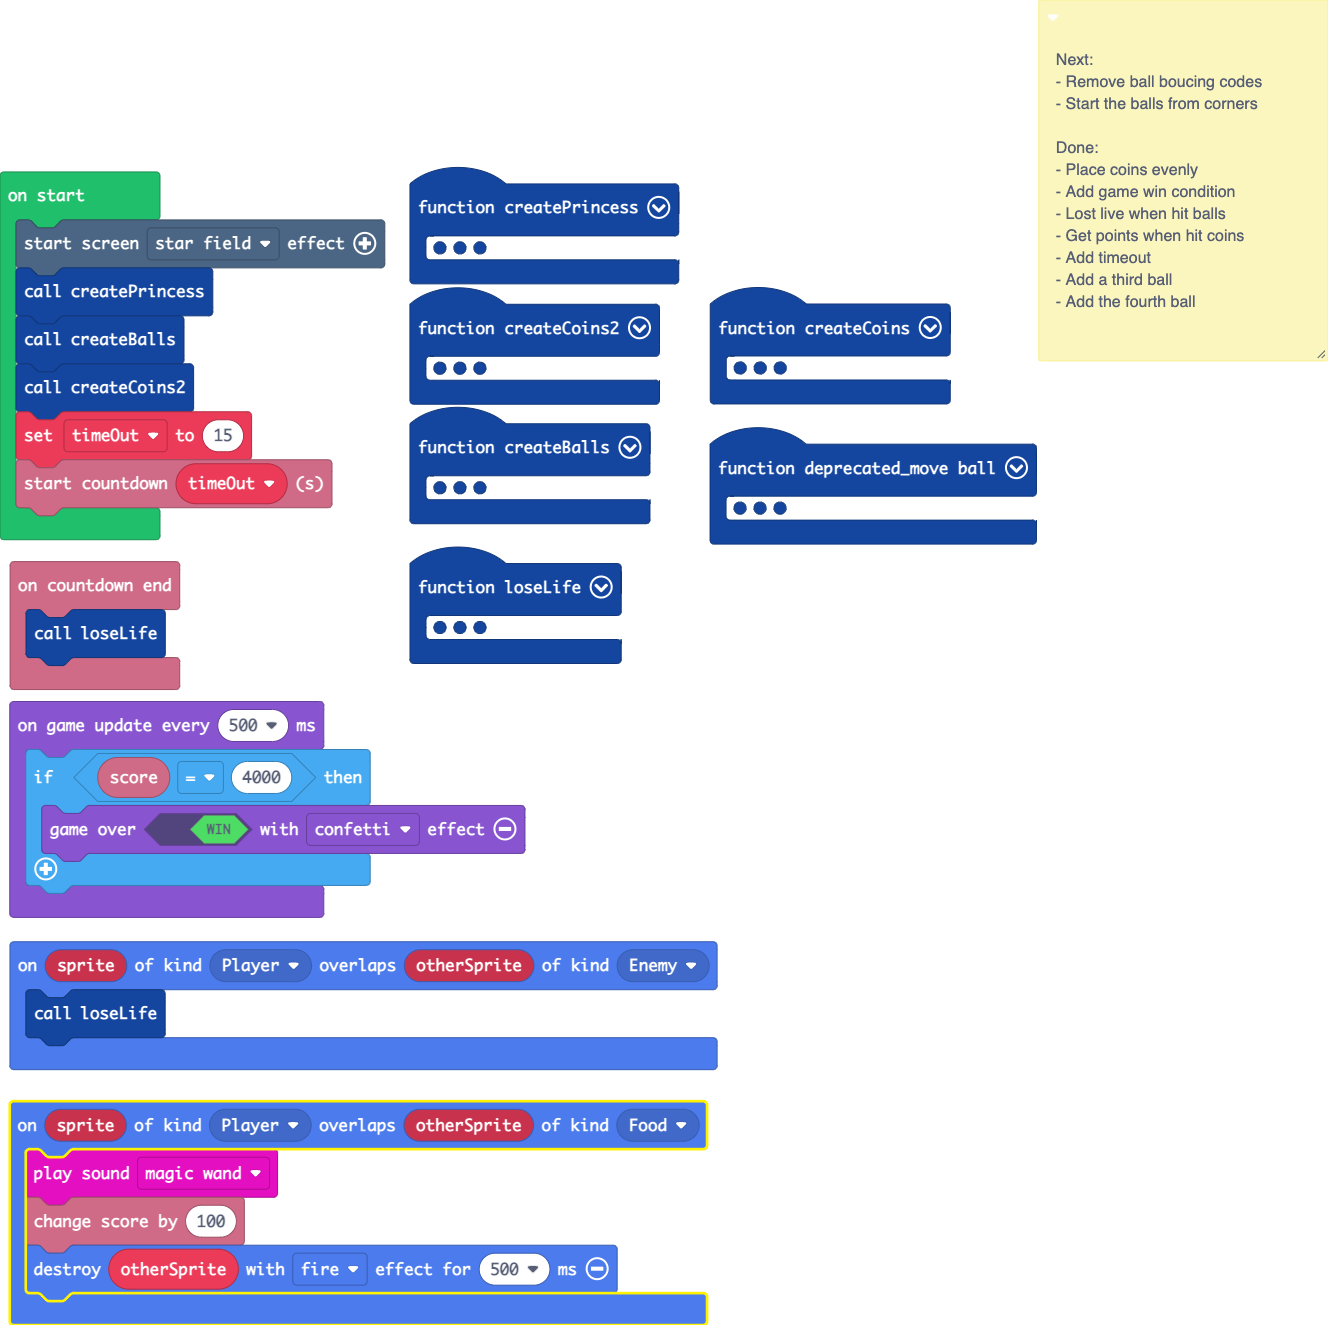
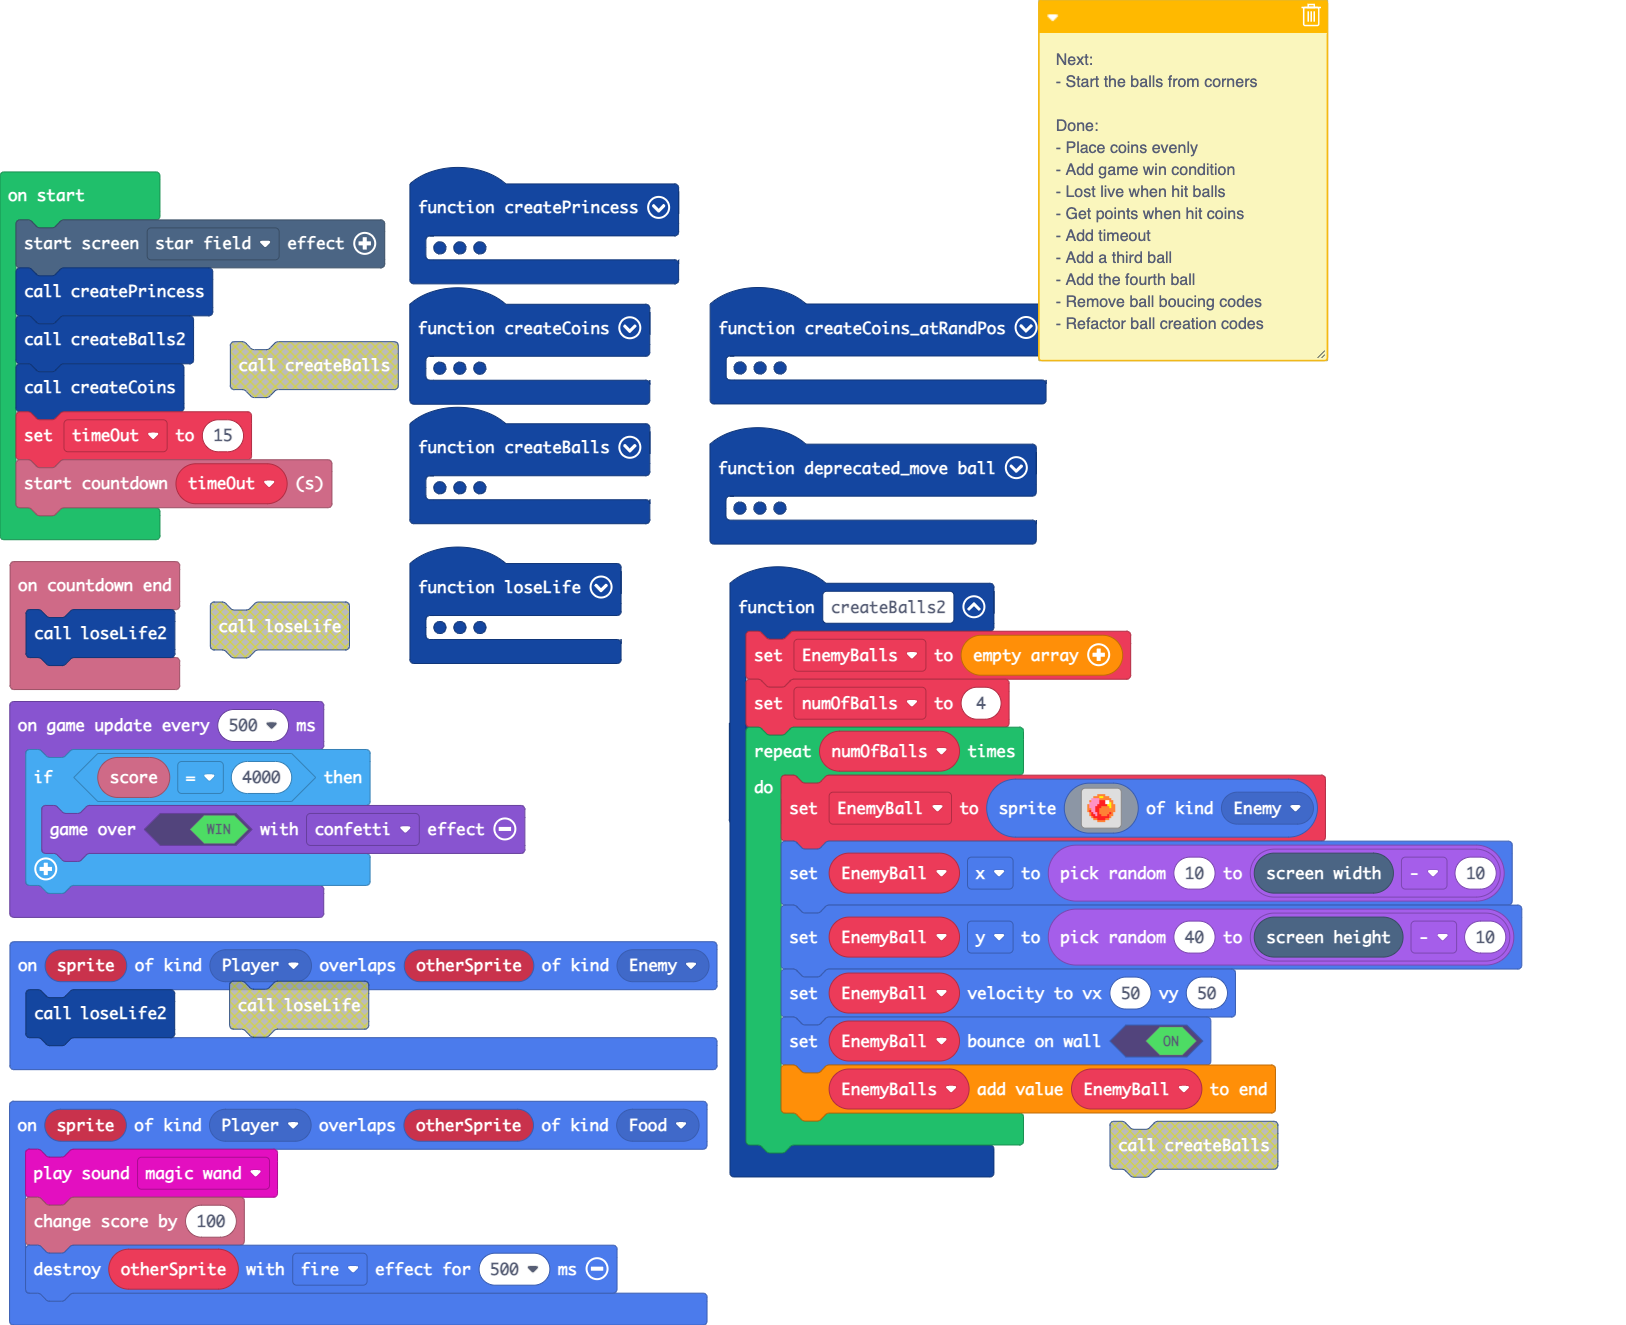
Refactor ball creation to support any number of balls

diff --git a/main.ts b/main.ts
@@ -1,26 +1,3 @@
-/**
- * Next:
- * 
- * - Remove ball boucing codes
- * 
- * - Start the balls from corners
- * 
- * Done:
- * 
- * - Place coins evenly
- * 
- * - Add game win condition
- * 
- * - Lost live when hit balls
- * 
- * - Get points when hit coins
- * 
- * - Add timeout
- * 
- * - Add a third ball
- * 
- * - Add the fourth ball
- */
 function createPrincess () {
     Princess = sprites.create(img`
         . . . . . f f f f . . . . . 
@@ -45,60 +22,6 @@ function createPrincess () {
     controller.moveSprite(Princess)
     info.setLife(3)
 }
-function createCoins2 () {
-    for (let index = 0; index <= 9; index++) {
-        GoldCoin = sprites.create(img`
-            . . . b b b . . 
-            . . b 5 5 5 b . 
-            . b 5 d 3 d 5 b 
-            . b 5 1 5 3 5 b 
-            . c d 1 5 3 5 c 
-            . c d d 1 d 5 c 
-            . . f d d d f . 
-            . . . f f f . . 
-            `, SpriteKind.Food)
-        GoldCoin.setPosition((index + 1) * 15, 50)
-    }
-    for (let index = 0; index <= 9; index++) {
-        GoldCoin = sprites.create(img`
-            . . . b b b . . 
-            . . b 5 5 5 b . 
-            . b 5 d 3 d 5 b 
-            . b 5 1 5 3 5 b 
-            . c d 1 5 3 5 c 
-            . c d d 1 d 5 c 
-            . . f d d d f . 
-            . . . f f f . . 
-            `, SpriteKind.Food)
-        GoldCoin.setPosition((index + 1) * 15, 70)
-    }
-    for (let index = 0; index <= 9; index++) {
-        GoldCoin = sprites.create(img`
-            . . . b b b . . 
-            . . b 5 5 5 b . 
-            . b 5 d 3 d 5 b 
-            . b 5 1 5 3 5 b 
-            . c d 1 5 3 5 c 
-            . c d d 1 d 5 c 
-            . . f d d d f . 
-            . . . f f f . . 
-            `, SpriteKind.Food)
-        GoldCoin.setPosition((index + 1) * 15, 90)
-    }
-    for (let index = 0; index <= 9; index++) {
-        GoldCoin = sprites.create(img`
-            . . . b b b . . 
-            . . b 5 5 5 b . 
-            . b 5 d 3 d 5 b 
-            . b 5 1 5 3 5 b 
-            . c d 1 5 3 5 c 
-            . c d d 1 d 5 c 
-            . . f d d d f . 
-            . . . f f f . . 
-            `, SpriteKind.Food)
-        GoldCoin.setPosition((index + 1) * 15, 110)
-    }
-}
 function loseLife () {
     scene.cameraShake(4, 500)
     music.powerDown.play()
@@ -111,8 +34,19 @@ function loseLife () {
     createBalls()
     info.startCountdown(timeOut)
 }
+function loseLife2 () {
+    scene.cameraShake(4, 500)
+    music.powerDown.play()
+    info.changeLifeBy(-1)
+    Princess.setPosition(80, 20)
+    for (let index = 0; index <= EnemyBalls.length - 1; index++) {
+        EnemyBalls[index].destroy()
+    }
+    createBalls2()
+    info.startCountdown(timeOut)
+}
 info.onCountdownEnd(function () {
-    loseLife()
+    loseLife2()
 })
 function deprecated_move (ball: Sprite) {
     if (ball.y > scene.screenHeight() - 20) {
@@ -234,7 +168,123 @@ function createBalls () {
     EnemyBall_4.setVelocity(-50, 50)
     EnemyBall_4.setBounceOnWall(true)
 }
+function createBalls2 () {
+    EnemyBalls = []
+    numOfBalls = 4
+    for (let index = 0; index < numOfBalls; index++) {
+        EnemyBall = sprites.create(img`
+            . . . . . . . . . . . . . . . . 
+            . . . . . . 4 4 4 4 . . . . . . 
+            . . . . 4 4 4 5 5 4 4 4 . . . . 
+            . . . 3 3 3 3 4 4 4 4 4 4 . . . 
+            . . 4 3 3 3 3 2 2 2 1 1 4 4 . . 
+            . . 3 3 3 3 3 2 2 2 1 1 5 4 . . 
+            . 4 3 3 3 3 2 2 2 2 2 5 5 4 4 . 
+            . 4 3 3 3 2 2 2 4 4 4 4 5 4 4 . 
+            . 4 4 3 3 2 2 4 4 4 4 4 4 4 4 . 
+            . 4 2 3 3 2 2 4 4 4 4 4 4 4 4 . 
+            . . 4 2 3 3 2 4 4 4 4 4 2 4 . . 
+            . . 4 2 2 3 2 2 4 4 4 2 4 4 . . 
+            . . . 4 2 2 2 2 2 2 2 2 4 . . . 
+            . . . . 4 4 2 2 2 2 4 4 . . . . 
+            . . . . . . 4 4 4 4 . . . . . . 
+            . . . . . . . . . . . . . . . . 
+            `, SpriteKind.Enemy)
+        EnemyBall.x = randint(10, scene.screenWidth() - 10)
+        EnemyBall.y = randint(40, scene.screenHeight() - 10)
+        EnemyBall.setVelocity(50, 50)
+        EnemyBall.setBounceOnWall(true)
+        EnemyBalls.push(EnemyBall)
+    }
+}
 function createCoins () {
+    for (let index = 0; index <= 9; index++) {
+        GoldCoin = sprites.create(img`
+            . . . b b b . . 
+            . . b 5 5 5 b . 
+            . b 5 d 3 d 5 b 
+            . b 5 1 5 3 5 b 
+            . c d 1 5 3 5 c 
+            . c d d 1 d 5 c 
+            . . f d d d f . 
+            . . . f f f . . 
+            `, SpriteKind.Food)
+        GoldCoin.setPosition((index + 1) * 15, 50)
+    }
+    for (let index = 0; index <= 9; index++) {
+        GoldCoin = sprites.create(img`
+            . . . b b b . . 
+            . . b 5 5 5 b . 
+            . b 5 d 3 d 5 b 
+            . b 5 1 5 3 5 b 
+            . c d 1 5 3 5 c 
+            . c d d 1 d 5 c 
+            . . f d d d f . 
+            . . . f f f . . 
+            `, SpriteKind.Food)
+        GoldCoin.setPosition((index + 1) * 15, 70)
+    }
+    for (let index = 0; index <= 9; index++) {
+        GoldCoin = sprites.create(img`
+            . . . b b b . . 
+            . . b 5 5 5 b . 
+            . b 5 d 3 d 5 b 
+            . b 5 1 5 3 5 b 
+            . c d 1 5 3 5 c 
+            . c d d 1 d 5 c 
+            . . f d d d f . 
+            . . . f f f . . 
+            `, SpriteKind.Food)
+        GoldCoin.setPosition((index + 1) * 15, 90)
+    }
+    for (let index = 0; index <= 9; index++) {
+        GoldCoin = sprites.create(img`
+            . . . b b b . . 
+            . . b 5 5 5 b . 
+            . b 5 d 3 d 5 b 
+            . b 5 1 5 3 5 b 
+            . c d 1 5 3 5 c 
+            . c d d 1 d 5 c 
+            . . f d d d f . 
+            . . . f f f . . 
+            `, SpriteKind.Food)
+        GoldCoin.setPosition((index + 1) * 15, 110)
+    }
+}
+sprites.onOverlap(SpriteKind.Player, SpriteKind.Food, function (sprite, otherSprite) {
+    music.magicWand.play()
+    info.changeScoreBy(100)
+    otherSprite.destroy(effects.fire, 500)
+})
+sprites.onOverlap(SpriteKind.Player, SpriteKind.Enemy, function (sprite, otherSprite) {
+    loseLife2()
+})
+/**
+ * Next:
+ * 
+ * - Start the balls from corners
+ * 
+ * Done:
+ * 
+ * - Place coins evenly
+ * 
+ * - Add game win condition
+ * 
+ * - Lost live when hit balls
+ * 
+ * - Get points when hit coins
+ * 
+ * - Add timeout
+ * 
+ * - Add a third ball
+ * 
+ * - Add the fourth ball
+ * 
+ * - Remove ball boucing codes
+ * 
+ * - Refactor ball creation codes
+ */
+function createCoins_atRandPos () {
     for (let index = 0; index < 10; index++) {
         GoldCoin = sprites.create(img`
             . . . b b b . . 
@@ -250,25 +300,20 @@ function createCoins () {
         GoldCoin.y = randint(10, scene.screenHeight() - 10)
     }
 }
-sprites.onOverlap(SpriteKind.Player, SpriteKind.Food, function (sprite, otherSprite) {
-    music.magicWand.play()
-    info.changeScoreBy(100)
-    otherSprite.destroy(effects.fire, 500)
-})
-sprites.onOverlap(SpriteKind.Player, SpriteKind.Enemy, function (sprite, otherSprite) {
-    loseLife()
-})
+let GoldCoin: Sprite = null
+let EnemyBall: Sprite = null
+let numOfBalls = 0
+let EnemyBalls: Sprite[] = []
 let EnemyBall_4: Sprite = null
 let EnemyBall_3: Sprite = null
 let EnemyBall_2: Sprite = null
 let EnemyBall_1: Sprite = null
-let GoldCoin: Sprite = null
 let Princess: Sprite = null
 let timeOut = 0
 effects.starField.startScreenEffect()
 createPrincess()
-createBalls()
-createCoins2()
+createBalls2()
+createCoins()
 timeOut = 15
 info.startCountdown(timeOut)
 game.onUpdateInterval(500, function () {

diff --git a/images.g.ts b/images.g.ts
@@ -459,6 +459,114 @@ f b b 4 1 f d d f 1 4 b b f
 . . . . . . 4 4 4 4 . . . . . . 
 . . . . . . . . . . . . . . . . 
 `;
+            case "image33":return img`
+. . . . . . . . . . . . . . . . 
+. . . . . . 4 4 4 4 . . . . . . 
+. . . . 4 4 4 5 5 4 4 4 . . . . 
+. . . 3 3 3 3 4 4 4 4 4 4 . . . 
+. . 4 3 3 3 3 2 2 2 1 1 4 4 . . 
+. . 3 3 3 3 3 2 2 2 1 1 5 4 . . 
+. 4 3 3 3 3 2 2 2 2 2 5 5 4 4 . 
+. 4 3 3 3 2 2 2 4 4 4 4 5 4 4 . 
+. 4 4 3 3 2 2 4 4 4 4 4 4 4 4 . 
+. 4 2 3 3 2 2 4 4 4 4 4 4 4 4 . 
+. . 4 2 3 3 2 4 4 4 4 4 2 4 . . 
+. . 4 2 2 3 2 2 4 4 4 2 4 4 . . 
+. . . 4 2 2 2 2 2 2 2 2 4 . . . 
+. . . . 4 4 2 2 2 2 4 4 . . . . 
+. . . . . . 4 4 4 4 . . . . . . 
+. . . . . . . . . . . . . . . . 
+`;
+            case "image34":return img`
+. . . . . . . . . . . . . . . . 
+. . . . . . 4 4 4 4 . . . . . . 
+. . . . 4 4 4 5 5 4 4 4 . . . . 
+. . . 3 3 3 3 4 4 4 4 4 4 . . . 
+. . 4 3 3 3 3 2 2 2 1 1 4 4 . . 
+. . 3 3 3 3 3 2 2 2 1 1 5 4 . . 
+. 4 3 3 3 3 2 2 2 2 2 5 5 4 4 . 
+. 4 3 3 3 2 2 2 4 4 4 4 5 4 4 . 
+. 4 4 3 3 2 2 4 4 4 4 4 4 4 4 . 
+. 4 2 3 3 2 2 4 4 4 4 4 4 4 4 . 
+. . 4 2 3 3 2 4 4 4 4 4 2 4 . . 
+. . 4 2 2 3 2 2 4 4 4 2 4 4 . . 
+. . . 4 2 2 2 2 2 2 2 2 4 . . . 
+. . . . 4 4 2 2 2 2 4 4 . . . . 
+. . . . . . 4 4 4 4 . . . . . . 
+. . . . . . . . . . . . . . . . 
+`;
+            case "image35":return img`
+. . . . . . . . . . . . . . . . 
+. . . . . . 4 4 4 4 . . . . . . 
+. . . . 4 4 4 5 5 4 4 4 . . . . 
+. . . 3 3 3 3 4 4 4 4 4 4 . . . 
+. . 4 3 3 3 3 2 2 2 1 1 4 4 . . 
+. . 3 3 3 3 3 2 2 2 1 1 5 4 . . 
+. 4 3 3 3 3 2 2 2 2 2 5 5 4 4 . 
+. 4 3 3 3 2 2 2 4 4 4 4 5 4 4 . 
+. 4 4 3 3 2 2 4 4 4 4 4 4 4 4 . 
+. 4 2 3 3 2 2 4 4 4 4 4 4 4 4 . 
+. . 4 2 3 3 2 4 4 4 4 4 2 4 . . 
+. . 4 2 2 3 2 2 4 4 4 2 4 4 . . 
+. . . 4 2 2 2 2 2 2 2 2 4 . . . 
+. . . . 4 4 2 2 2 2 4 4 . . . . 
+. . . . . . 4 4 4 4 . . . . . . 
+. . . . . . . . . . . . . . . . 
+`;
+            case "image36":return img`
+. . . . . . . . . . . . . . . . 
+. . . . . . 4 4 4 4 . . . . . . 
+. . . . 4 4 4 5 5 4 4 4 . . . . 
+. . . 3 3 3 3 4 4 4 4 4 4 . . . 
+. . 4 3 3 3 3 2 2 2 1 1 4 4 . . 
+. . 3 3 3 3 3 2 2 2 1 1 5 4 . . 
+. 4 3 3 3 3 2 2 2 2 2 5 5 4 4 . 
+. 4 3 3 3 2 2 2 4 4 4 4 5 4 4 . 
+. 4 4 3 3 2 2 4 4 4 4 4 4 4 4 . 
+. 4 2 3 3 2 2 4 4 4 4 4 4 4 4 . 
+. . 4 2 3 3 2 4 4 4 4 4 2 4 . . 
+. . 4 2 2 3 2 2 4 4 4 2 4 4 . . 
+. . . 4 2 2 2 2 2 2 2 2 4 . . . 
+. . . . 4 4 2 2 2 2 4 4 . . . . 
+. . . . . . 4 4 4 4 . . . . . . 
+. . . . . . . . . . . . . . . . 
+`;
+            case "image37":return img`
+. . . . . . . . . . . . . . . . 
+. . . . . . 4 4 4 4 . . . . . . 
+. . . . 4 4 4 5 5 4 4 4 . . . . 
+. . . 3 3 3 3 4 4 4 4 4 4 . . . 
+. . 4 3 3 3 3 2 2 2 1 1 4 4 . . 
+. . 3 3 3 3 3 2 2 2 1 1 5 4 . . 
+. 4 3 3 3 3 2 2 2 2 2 5 5 4 4 . 
+. 4 3 3 3 2 2 2 4 4 4 4 5 4 4 . 
+. 4 4 3 3 2 2 4 4 4 4 4 4 4 4 . 
+. 4 2 3 3 2 2 4 4 4 4 4 4 4 4 . 
+. . 4 2 3 3 2 4 4 4 4 4 2 4 . . 
+. . 4 2 2 3 2 2 4 4 4 2 4 4 . . 
+. . . 4 2 2 2 2 2 2 2 2 4 . . . 
+. . . . 4 4 2 2 2 2 4 4 . . . . 
+. . . . . . 4 4 4 4 . . . . . . 
+. . . . . . . . . . . . . . . . 
+`;
+            case "image38":return img`
+. . . . . . . . . . . . . . . . 
+. . . . . . 4 4 4 4 . . . . . . 
+. . . . 4 4 4 5 5 4 4 4 . . . . 
+. . . 3 3 3 3 4 4 4 4 4 4 . . . 
+. . 4 3 3 3 3 2 2 2 1 1 4 4 . . 
+. . 3 3 3 3 3 2 2 2 1 1 5 4 . . 
+. 4 3 3 3 3 2 2 2 2 2 5 5 4 4 . 
+. 4 3 3 3 2 2 2 4 4 4 4 5 4 4 . 
+. 4 4 3 3 2 2 4 4 4 4 4 4 4 4 . 
+. 4 2 3 3 2 2 4 4 4 4 4 4 4 4 . 
+. . 4 2 3 3 2 4 4 4 4 4 2 4 . . 
+. . 4 2 2 3 2 2 4 4 4 2 4 4 . . 
+. . . 4 2 2 2 2 2 2 2 2 4 . . . 
+. . . . 4 4 2 2 2 2 4 4 . . . . 
+. . . . . . 4 4 4 4 . . . . . . 
+. . . . . . . . . . . . . . . . 
+`;
         }
         return null;
     })
